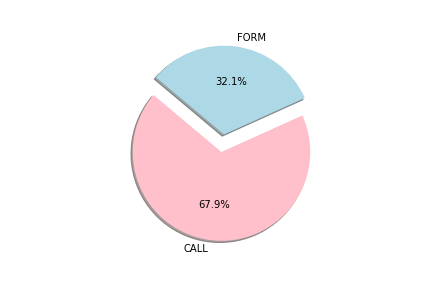
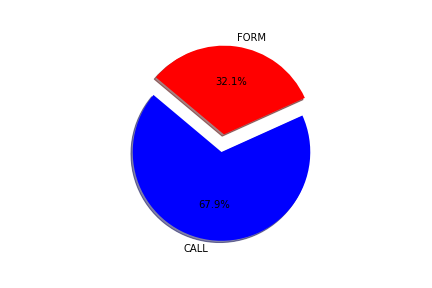
cambios

Changed region(s): [[0.3009, 0.1562, 0.7222, 0.8438]]

diff --git a/examen2.0.py b/examen2.0.py
@@ -189,7 +189,7 @@ def grafico_call_form():
     form=conversiones[conversiones['lead_type']=='FORM'].shape[0]
     labels = 'CALL', 'FORM'
     sizes = [call, form]
-    colors = ['pink', 'lightblue']
+    colors = ['blue', 'red']
     explode = (0.1, 0.1)
     plt.pie(sizes, explode=explode, labels=labels, colors=colors,
             autopct='%1.1f%%', shadow=True, startangle=140)
@@ -207,7 +207,7 @@ def grafico_recurrentes():
     porcentaje=recurrentes/total *100
     labels = 'Recurrentes', 'No recurrentes'
     sizes = [porcentaje, 100-porcentaje]
-    colors = ['lightyellow', 'lightgreen']
+    colors = ['green', 'orange']
     explode = (0.1, 0.1)
     plt.pie(sizes, explode=explode, labels=labels, colors=colors,
             autopct='%1.1f%%', shadow=True, startangle=140)
